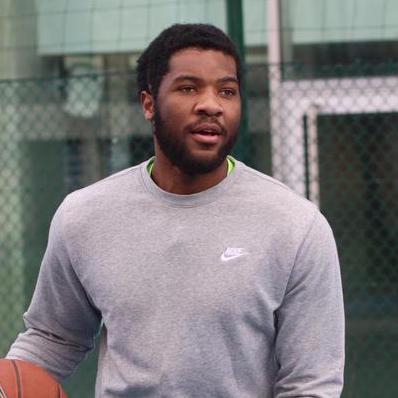
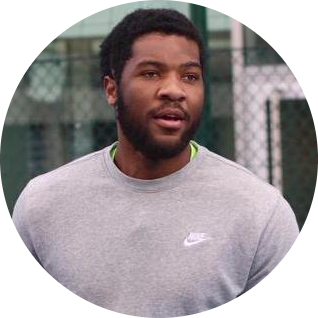
redo css basics

diff --git a/HTML - Personal Site/index.html b/HTML - Personal Site/index.html
@@ -3,13 +3,14 @@
 <head>
     <meta charset="utf-8">
     <meta name="description" content="A minimize Portfolio showing all the formation/education and project I've taken on my learning journey">
+    <link rel="stylesheet" href="css/style.css">
     <title>Brandon's Personal Site</title>
 </head>
 <body>
     <table cellspacing="20">
         <tr>
             <td>
-                <img width="250" src="./images/profile.png" alt="profile picture">
+                <img width="200" src="./images/profile.png" alt="profile picture">
             </td>
             <td>
                 <h1>Brandon Kwamou</h1>
@@ -34,7 +35,7 @@
     </ul>
     <hr>
     <h3>Work Experience</h3>
-    <table border="1">
+    <table cellspacing="10">
         <thead>
             <tr><th>Dates</th>
             <th>Work</th>
@@ -51,7 +52,38 @@
         </tr>
     </table>
     <hr>
+    <h3>Skills</h3>
+    <table>
+        <tr>
+            <td>
+                <table cellspacing="10">
+                    <tr>
+                        <td>HTML</td>
+                        <td>⭐⭐⭐⭐⭐</td>
+                    </tr>
+                    <tr>
+                        <td>CSS</td>
+                        <td>⭐⭐⭐⭐⭐</td>
+                    </tr>
+                </table>
+            </td>
+
+            <td>
+                <table cellspacing="10">
+                    <tr>
+                        <td>PHP</td>
+                        <td>⭐⭐⭐⭐⭐</td>
+                    </tr>
+                    <tr>
+                        <td>MySQL</td>
+                        <td>⭐⭐⭐⭐⭐</td>
+                    </tr>
+                </table>
+            </td>
+        </tr>
+    </table>
+    <hr>
     <a href="./hobbies.html">My Hobbies</a>
-    <br>
+    <a href="./contact.html">Contact me</a>
 </body>
 </html>

diff --git a/HTML - Personal Site/contact.html b/HTML - Personal Site/contact.html
@@ -1,0 +1,23 @@
+<!DOCTYPE html>
+<html lang="en">
+<head>
+    <meta charset="UTF-8">
+    <link rel="stylesheet" href="css/style.css">
+    <title>Contact details</title>
+</head>
+<body>
+    <h1>Contact Me</h1>
+    <p>Phone: 0798625341</p>
+    <p>myemail@email.com</p>
+    <hr>
+    <form action="mailto:brandon75xv@gmail.com" method="post" enctype="text/plain">
+        <label for="name">Your Name:</label>
+        <input type="text"><br>
+        <label for="email">Your Email:</label>
+        <input type="email"><br>
+        <label for="">Your Message:</label>
+        <textarea name="message" id="" cols="30" rows="10"></textarea><br>
+        <input type="submit" value="submit">
+    </form>
+</body>
+</html>

diff --git a/CSS - My Site/index.html b/CSS - My Site/index.html
@@ -1,0 +1,11 @@
+<!DOCTYPE html>
+<html lang="en">
+<head>
+    <meta charset="UTF-8">
+    <link rel="stylesheet" href="css/styles.css">
+    <title>Brandon</title>
+</head>
+<body>
+    
+</body>
+</html>

diff --git a/HTML - Personal Site/hobbies.html b/HTML - Personal Site/hobbies.html
@@ -2,6 +2,7 @@
 <html lang="en">
 <head>
     <meta charset="UTF-8">
+    <link rel="stylesheet" href="css/style.css">
     <title>My Hobbies</title>
 </head>
 <body>

diff --git a/HTML - Personal Site/css/style.css b/HTML - Personal Site/css/style.css
@@ -1,0 +1,7 @@
+body {
+    background-color: #EAF6F6;
+}
+hr {
+    border-top: 5px dotted grey;
+    width: 5%;
+}

diff --git a/CSS - My Site/css/styles.css b/CSS - My Site/css/styles.css
@@ -1,0 +1,3 @@
+body {
+    background-color: blue;
+}
